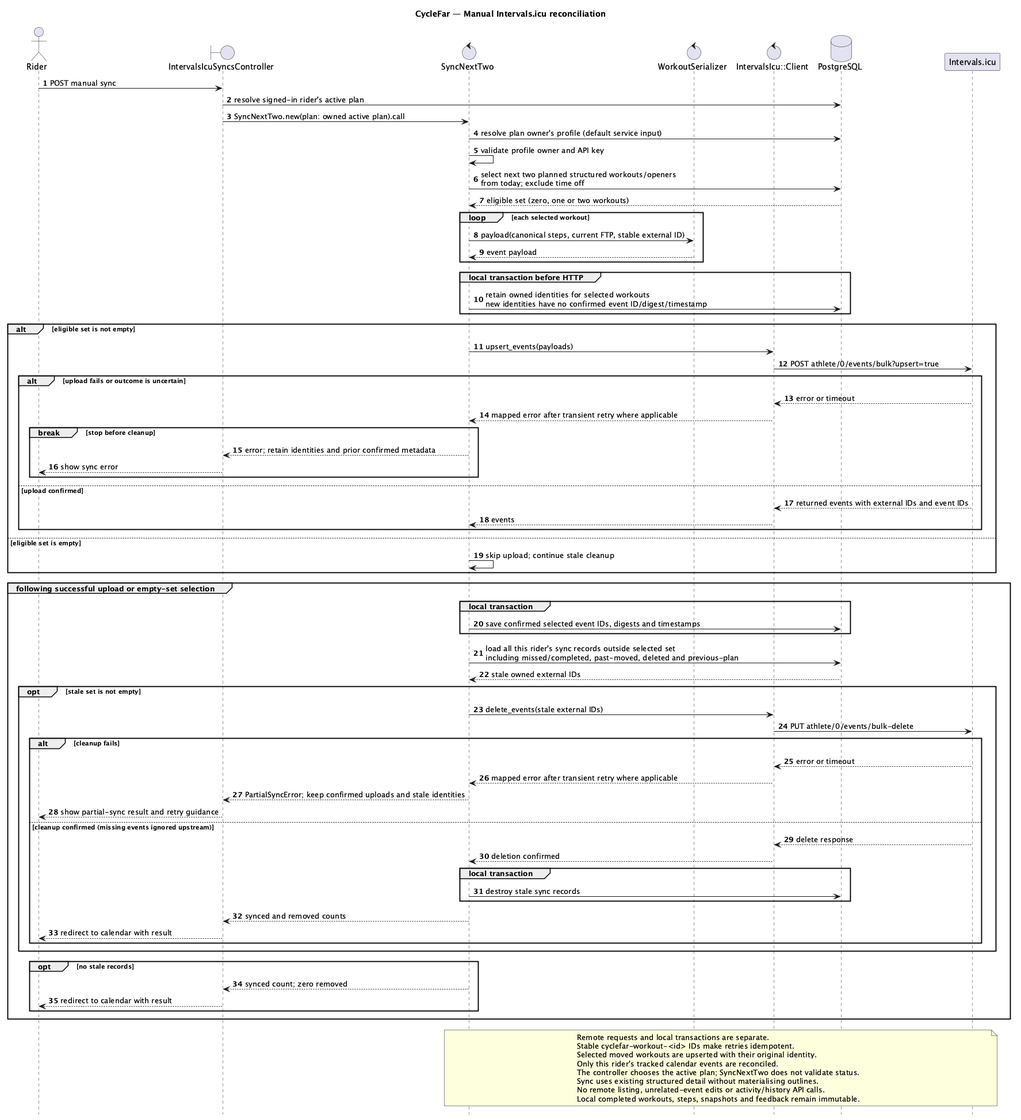
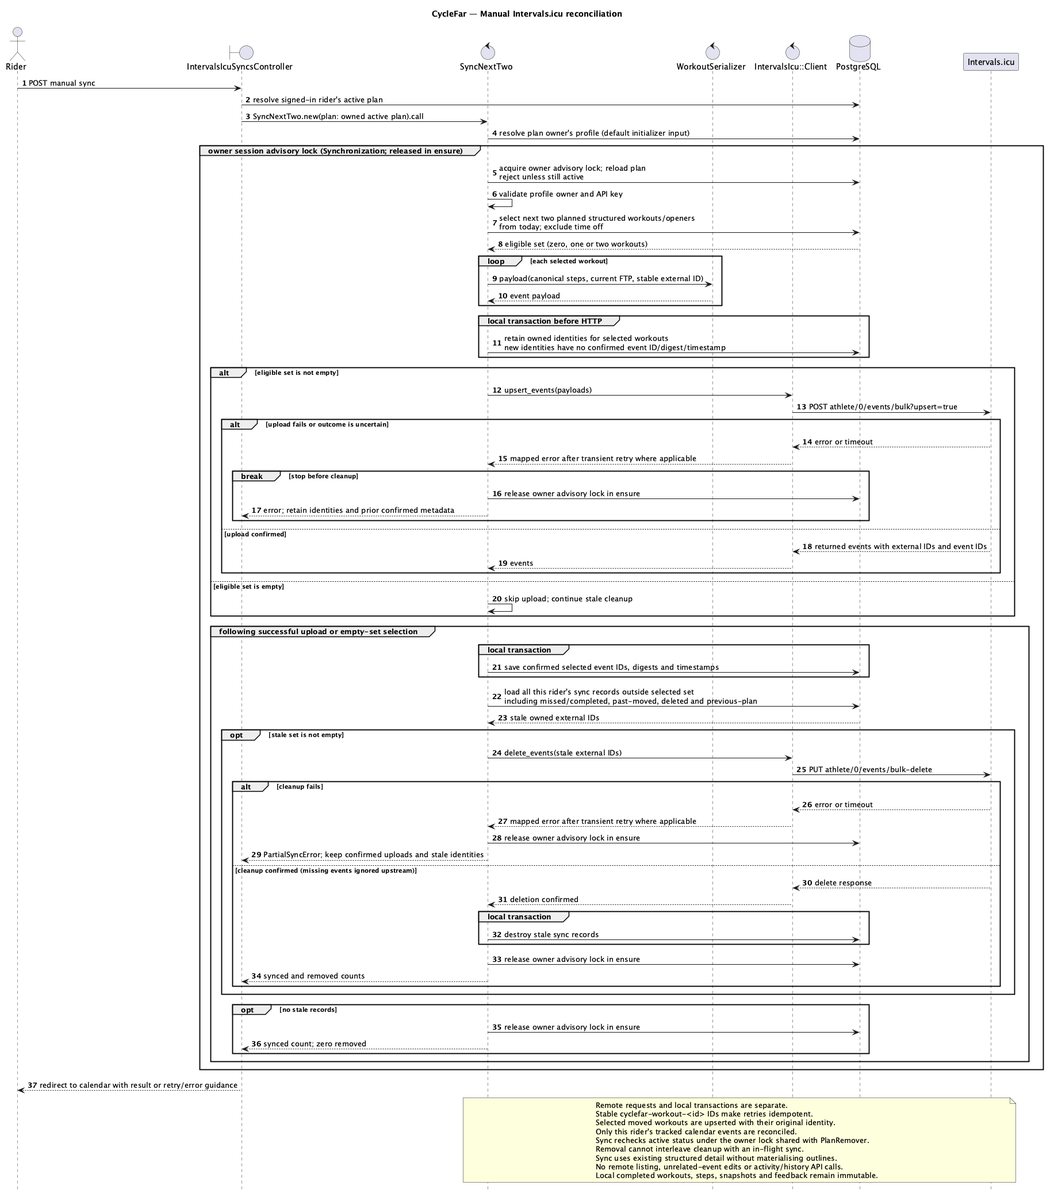
CYF-81 Update workout adjustment documentation and diagrams

diff --git a/docs/diagrams/README.md b/docs/diagrams/README.md
@@ -2,14 +2,16 @@
 
 These diagrams describe the implemented application, including owner-scoped requests and sync, account access, preview isolation, feedback comparisons, accepted progression bias and optional material-change replanning. All eleven views were reviewed against the current controllers, services, routes, configuration and SQL schema on 2026-10-06. They include shared recovery scheduling, staged taper budgets, return-stage power limits, canonical calendar summaries and complete tracked-event reconciliation through CYF-14, plus current account access and deployment boundaries. They do not certify all V1 requirements; outstanding behaviour is tracked in Jira.
 
+The documentation review on 2026-10-11 adds a twelfth view for manual Easier/Harder (CYF-81) and updates the application and plan-change components to include `DirectionalAdjustment`. The manual adjustment flow distinguishes interval ladders from aerobic profiles and shows both successful replacement and the unchanged limit result. The application and sync views also now reflect implemented plan-removal cleanup and the shared owner advisory lock (CYF-79), including sync's active-plan recheck.
+
 | View (PlantUML source) | PNG | Scope |
 | --- | --- | --- |
 | [System context](context-cyclefar-system.puml) | [PNG](png/context-cyclefar-system.png) | Rider, owner-scoped CycleFar, Intervals.icu and SMTP provider |
 | [Containers](container-cyclefar.puml) | [PNG](png/container-cyclefar.png) | Rails/Puma with supervised Solid Queue, PostgreSQL databases and SMTP provider |
 | [Application components](component-cyclefar-application.puml) | [PNG](png/component-cyclefar-application.png) | Authentication, account access, canonical calendar summaries, domain services and persistence |
 | [Plan generation](component-cyclefar-plan-generation.puml) | [PNG](png/component-cyclefar-plan-generation.png) | Session draft, aligned recovery, taper budgets, confirmation and saved generation choices during materialisation |
-| [Plan changes](component-cyclefar-plan-change.puml) | [PNG](png/component-cyclefar-plan-change.png) | Manual edits, completion, bounded feedback, atomic acceptance, comparable pre-break progression, staged return limits and FTP updates |
-| [Intervals.icu sync](component-cyclefar-intervals-icu-sync.puml) | [PNG](png/component-cyclefar-intervals-icu-sync.png) | Selection, serialization, pre-upload identities, confirmed metadata and all owned stale-event cleanup |
+| [Plan changes](component-cyclefar-plan-change.puml) | [PNG](png/component-cyclefar-plan-change.png) | Directional manual edits, completion, bounded feedback, atomic acceptance, comparable pre-break progression, staged return limits and FTP updates |
+| [Intervals.icu sync](component-cyclefar-intervals-icu-sync.puml) | [PNG](png/component-cyclefar-intervals-icu-sync.png) | Owner lock, active-plan recheck, selection, serialization, retained identities, stale-event cleanup and plan-removal cleanup |
 
 The component views answer **which parts own a responsibility**. For request order and read/write boundaries, follow the sequence views:
 
@@ -19,7 +21,8 @@ The component views answer **which parts own a responsibility**. For request ord
 | [Change future training](sequence-cyclefar-future-replanning.puml) | [PNG](png/sequence-cyclefar-future-replanning.png) | Rebuild affected prescriptions with taper context and comparable pre-break return limits, then materialize nearby detail. |
 | [Feedback proposal](sequence-cyclefar-feedback-proposal.puml) | [PNG](png/sequence-cyclefar-feedback-proposal.png) | Completion saves an immutable snapshot; feedback creates an optional proposal; read-only comparison precedes acceptance or rejection. |
 | [Material Change Workout proposal](sequence-cyclefar-material-change-proposal.puml) | [PNG](png/sequence-cyclefar-material-change-proposal.png) | Change Workout immediately saves the selected workout; a separate optional acceptance replans the bounded following block. |
-| [Manual Intervals.icu reconciliation](sequence-cyclefar-intervals-icu-sync.puml) | [PNG](png/sequence-cyclefar-intervals-icu-sync.png) | Retain identities before upload, save confirmed metadata, clean every stale owned event, and preserve retry metadata on failure. |
+| [Make a workout Easier/Harder](sequence-cyclefar-directional-adjustment.puml) | [PNG](png/sequence-cyclefar-directional-adjustment.png) | Select interval ladder entries or aerobic profiles by calculated and displayed TSS; save one replacement or return a limit without writes. |
+| [Manual Intervals.icu reconciliation](sequence-cyclefar-intervals-icu-sync.puml) | [PNG](png/sequence-cyclefar-intervals-icu-sync.png) | Under the shared owner lock, recheck active status, retain identities before upload, save confirmed metadata, clean stale owned events and preserve retry metadata on failure. |
 
 Read the [application component view](component-cyclefar-application.puml) for orientation, then the sequence that matches the rider action. The two proposal sequences are separate because feedback proposes edits to upcoming workouts, while a material Change Workout has already saved its source workout before the optional replan is offered.
 
@@ -33,7 +36,11 @@ Authentication gates private application controllers, while the homepage offers 
 
 The sync views show reconciliation of every tracked event owned by the rider outside the next-two set, including missed/completed, past-moved, deleted and previous-plan workouts. Owned identities are saved before HTTP; confirmed uploads are saved before cleanup. An uncertain upload retains its identities, while cleanup failure retains both confirmed upload metadata and stale identities for retry. Remote operations and local transactions are separate. Completed local history and remote activities remain unchanged (CYF-14).
 
+`Synchronization` serializes manual sync and plan removal with an owner-scoped PostgreSQL session advisory lock. Sync reloads and checks active status under this lock, retaining separate short local transactions around HTTP. `PlanRemover` also locks the plan and calls `RemovePlanEvents` to clean this plan's linked events and the owner's detached identities before archiving/deleting locally. Missing credentials or remote failure retains the active plan and identities; local failure rolls back identity removal and plan mutation for safe retry. With completed workouts, removal archives the plan and retains completed/missed history; otherwise it deletes the plan (CYF-79).
+
 The plan-change view shows regular structured feedback targets in today through day 13, comparable-family fallback, nearby hard-session and difficult-easy reductions, read-only comparisons and acceptance using the same load-limited prescriptions. ProposalCreator saves a seven-day deadline and a digest of relevant canonical inputs. ProposalFreshness enforces expiry, active-plan status and unchanged relevant prescriptions/schedule/load before comparison and acceptance; stale, expired or unverifiable proposals offer dismissal. FTP-only metric recalculation does not invalidate them. Acceptance applies the exact load-limited canonical definition shown in the comparison and rolls back all edits if any step fails. Accepted global bias affects later materialisation; per-family stored bias remains unimplemented.
+
+Manual Easier/Harder uses `DirectionalAdjustment` rather than feedback's `adapt` path. Subtype membership in `Training::Rules::LADDERS` selects nearest lower/higher interval levels followed by current-level variants. Endurance/Recovery search profiles only; the aerobic fitter returns `progression_level: nil`. Every candidate retains subtype, duration and saved load adjustments. The saved profile is tried first, then the declared rule order; the first candidate moving both canonical current-FTP TSS and displayed whole TSS in the requested direction wins. Display comparison includes database decimal rounding. A limit writes nothing and suggests Shorter/Longer or Change workout; it never wraps back to an unsuitable profile. Successful one-off edits preserve automatic references and plan bias, and do not create a replan proposal. Same still rotates profiles. See [TRAINING_ENGINE.md §21](../TRAINING_ENGINE.md#21-harder--easier-manual-shuffle).
 
 AWS Terraform/CloudFormation templates are separate infrastructure preparation. They are documented in [infra/README.md](../../infra/README.md), not represented as running containers here. The container view groups the web server and its Puma-supervised Solid Queue worker into the current Kamal deployment unit. The worker delivers queued password-reset mail; it does not generate training or sync Intervals.icu.
 
@@ -59,7 +66,7 @@ After hard-week load enforcement, `PlanBuilder` budgets taper stages against the
 
 The `.puml` files are the maintained sources; PNG exports live in [`png/`](png/). Regenerate the PNG whenever its source changes. The source filenames determine export filenames, and all six C4 views use PlantUML's built-in Smetana layout engine, so Graphviz is not required.
 
-The C4 sources load C4-PlantUML from the upstream URL in their `!include`, so rendering those views needs access to those includes (or a locally configured copy). The five sequence sources are self-contained. The upstream `master` reference is unpinned and may change C4 rendering independently of this repository.
+The C4 sources load C4-PlantUML from the upstream URL in their `!include`, so rendering those views needs access to those includes (or a locally configured copy). The six sequence sources are self-contained. The upstream `master` reference is unpinned and may change C4 rendering independently of this repository.
 
 With a local `plantuml` command on your `PATH`, run from the repository root:
 
@@ -80,3 +87,5 @@ PlantUML resolves this relative output directory beside each source, producing `
 When updating a view, compare it with the named controllers/services, routes and persistence schema. Check relationship endpoints, render the sources and inspect the resulting images. Keep implementation limits in diagram notes and this guide aligned with [ARCHITECTURE.md](../ARCHITECTURE.md), especially after proposal, move, completion or horizon changes.
 
 Validation on 2026-10-06 ran `generate-pngs.sh` with PlantUML 1.2026.8 and the built-in Smetana layout engine. All eleven sources passed the script's pre-render checks and were exported to PNG. The exports were visually reviewed, source/PNG links were checked, and the PNG chunks were checked for the absence of embedded PlantUML source metadata. The application and plan-change component views were later re-rendered individually to cover editable FTP history and the load-guidance panel.
+
+Validation on 2026-10-11 used PlantUML 1.2026.8 with the same pre-render checks and metadata-free PNG options. All twelve sources passed and rendered in a temporary directory. The five changed/new exports were visually reviewed and copied into `png/`; local documentation links and PNG metadata were checked. The directional selector, manual-editor and workout-request specs passed: 113 examples, zero failures. This review changes documentation and diagrams only.

diff --git a/docs/TRAINING_ENGINE.md b/docs/TRAINING_ENGINE.md
@@ -335,6 +335,8 @@ Positive bias increases progression level before changing subtype. Do not start 
 
 Each structured intensity subtype has levels 1–7. Level is primarily based on position inside the current phase, then adjusted by feedback/recovery/load-cap constraints.
 
+The ladders belong to Tempo, Sweet Spot, Threshold, VO2 Max and Over-under. Endurance and Recovery use aerobic profiles and have no progression level (`nil` on the generated definition and structured workout). A level identifies a subtype's interval structure, not a TSS ranking: changing repetitions, recovery and duration fitting can make adjacent levels non-monotonic in total load. Manual Easier/Harder therefore checks generated TSS as described in section 21.
+
 Base target levels by phase:
 
 - Base: 1 → 4 across the phase
@@ -580,13 +582,17 @@ Affects this workout only.
 CYF-81 makes these actions directional in total planned load:
 
 - Calculate current load from the canonical steps and candidate load from generated steps, both at the owning rider's current FTP.
-- Easier requires strictly lower estimated TSS and a lower displayed whole-number TSS; Harder requires strictly higher values for both. Hidden rounding differences do not count.
+- Easier requires strictly lower estimated TSS and a lower displayed whole-number TSS; Harder requires strictly higher values for both. For the displayed comparison, first round to the database column's decimal precision, then to a whole number, matching persistence and the UI. Hidden rounding differences do not count.
 - For intensity sessions, search lower levels nearest first for Easier, or higher levels nearest first for Harder, within 1..7 and the applicable saved/reduced-period ceiling. Skip non-monotonic ladder entries and ineffective duration fits. A higher requested level that fits below the current effective level is not a Harder candidate.
 - At each candidate level, prefer the saved variation, then other valid variations in their declared rule order. Select the first qualifying replacement. If directional levels are exhausted, evaluate variations at the current level, subject to the ceiling. Endurance/Recovery have no intensity progression level and evaluate only their valid profiles using the same order.
 - Keep subtype and exact duration; use the existing fitter, ladders and normal target ranges. Retain saved target-lowering/easy-filler choices, tapered main-set factors and return-stage power limits. Preserve the workout's purpose and automatic generation references.
 - If no candidate qualifies, persist no changes and explain the limit: `No lower-load option is available at this duration. Try Shorter or Change workout.` Harder substitutes `higher-load` and `Longer`. Repeated presses never wrap to an unsuitable profile.
 
 For example, 60-minute Over-Unders level 3 is approximately 64.2 TSS. Easier skips level 2 (68.2 TSS) and selects level 1 (59.4 TSS). Recovery profile differences may be too small to change displayed TSS, in which case the action reports the limit.
+
+For a normal 60-minute Endurance workout, alternating is approximately 44.94 TSS (displayed as 45), undulating 44.81 (45) and sustained 44.16 (44). Easier from alternating selects sustained; another Easier press reports the limit. Harder from sustained selects alternating in the declared profile order. The selector takes the first qualifying profile, rather than sorting all profiles by TSS. It does not repeatedly lower aerobic power targets; further reductions require Shorter or Change workout.
+
+The implementation branches on subtype membership in `Training::Rules::LADDERS` in `Workouts::DirectionalAdjustment#candidate_levels`. Aerobic candidates use a single internal level-1 generator argument; `ExactDurationFitter#fit_aerobic` ignores the ladder and returns a `nil` progression level. See the [manual adjustment sequence](diagrams/sequence-cyclefar-directional-adjustment.puml) and its [rendered diagram](diagrams/png/sequence-cyclefar-directional-adjustment.png).
 
 Do not update plan progression bias from this action.
 
@@ -1092,6 +1098,16 @@ For each subtype, levels 1–7 and representative durations 30/45/60/75/90/120 m
 - recovery weeks excluded from reference;
 - next hard week after recovery compares to pre-recovery hard week;
 - manual Harder/Longer can exceed cap without mutating future progression.
+
+### Manual Easier/Harder
+
+- repeated actions across every regular subtype and representative durations either move calculated and displayed TSS strictly in the requested direction or reach a finite limit;
+- non-monotonic interval ladders and levels that fit down at short durations do not reverse the requested load change;
+- Endurance/Recovery evaluate profiles without acquiring an intensity progression level;
+- saved taper factors, target/filler adjustments, return bands and applicable progression ceilings survive every candidate;
+- preview and application select the same definition for unchanged inputs; a limit leaves all persistence unchanged;
+- current canonical metrics, database decimal precision and whole-number display rounding govern the comparison;
+- one-off edits preserve automatic generation references, plan bias, unrelated workouts and completed history.
 
 ### Feedback
 

diff --git a/docs/ARCHITECTURE.md b/docs/ARCHITECTURE.md
@@ -72,6 +72,8 @@ Forecast generation always passes an explicit variation. Initial endurance mater
 
 For Easier/Harder, pure `Workouts::DirectionalAdjustment` searches valid ladder/profile replacements and compares canonical current-FTP load, requiring both actual and displayed whole-number TSS to move in the requested direction. `ManualEditor` supplies the saved load adjustments and shared `Planning::LoadContext` ceiling, retains purpose/generation references, and applies only a qualifying replacement under the plan lock. Exhausted or rounding-only choices raise a limit message through the existing request error path without changing persistence. Other editing and feedback paths retain their existing selection rules (CYF-81).
 
+The interval/aerobic distinction is `Training::Rules::LADDERS.key?(subtype)` in `DirectionalAdjustment#candidate_levels`, also used by `ExactDurationFitter#call`. Ladder subtypes search directional levels nearest first and then current-level variations, preferring the saved variation at each level. Endurance/Recovery search profiles only: the internal level-1 generator argument is ignored by `fit_aerobic`, which returns `progression_level: nil`. The first candidate passing both TSS comparisons wins; display comparison rounds to database decimal precision before whole-number rounding. `ManualEditor#preview` performs no writes; the current shuffle buttons call `apply!` directly, which reloads the workout and selects the replacement under the plan lock before replacing steps transactionally. See the [component view](diagrams/component-cyclefar-plan-change.puml) and [manual adjustment sequence](diagrams/sequence-cyclefar-directional-adjustment.puml), also available as a [PNG](diagrams/png/sequence-cyclefar-directional-adjustment.png).
+
 `Workouts::DestinationValidator` shares Add, Copy, Move and missed Move destination rules: an empty date within the plan and a phase, outside inclusive time-off periods and away from the target event date. Mutations validate under the owning plan lock before changing workouts or steps; Move alone excludes its source from collision checks. Failures show the same date-specific errors and preserve canonical prescriptions and completed history (CYF-8).
 
 `Workouts::Mover` serves ordinary Move and missed-workout Move under the owning plan lock. Same-phase moves of at most seven days preserve canonical steps, variation and manual levels when recovery/return context remains compatible. A phase boundary, greater distance or changed recovery/return context regenerates at the destination's phase/date and accepted bias, preserving kind, subtype, intent and requested duration. `Planning::PhaseProgression` shares the phase-level calculation with PlanBuilder. Source generation ceilings are replaced with destination recovery/taper/post-break ceilings and fitted/load-limited references. Explicit moves retain subtype/duration during reduced-load periods while respecting their level ceilings; automatic schedule/time-off prescriptions still apply their usual subtype/duration overrides. Structured workouts remain structured outside the horizon; distant outlines keep forecasts only and retain an unbiased baseline for later materialisation. Move rejects non-planned sources, archived plans, occupied/out-of-plan/unphased destinations, time off and the target event date. Preserved structures refresh metrics with owner FTP; completed history and unrelated workouts remain unchanged.

diff --git a/docs/DATA_MODEL.md b/docs/DATA_MODEL.md
@@ -156,7 +156,7 @@ Fields:
 - `purpose: string`
 - `detail_status: enum` — `outline`, `structured`
 - `status: enum` — `planned`, `missed`, `completed`
-- `progression_level: integer, nullable` — outline prescription level before materialisation; fitted effective level once structured
+- `progression_level: integer, nullable` — outline prescription level before materialisation; fitted effective interval level once structured; structured Endurance/Recovery and openers have no level
 - `generation_context: jsonb, default: {}` — baseline level, effective generation ceiling and generated load/level reference
 - `variation_key: string, nullable` — persisted descriptive profile key; Same shuffle rotates deterministically, while initial endurance generation randomly selects a profile (TRAINING_ENGINE.md §15)
 - `estimated_np_watts: decimal, nullable`
@@ -181,6 +181,8 @@ Important:
 - Missed records retain their structure/metrics and occupy their date under the same unique constraint. Current calendar totals include them.
 
 `generation_context` is generation metadata, not a replacement for canonical steps. `baseline_level` preserves the unbiased prescription when a time-off ceiling is based on a previously reached effective level; `maximum_level` retains load/re-entry limits. `generated_level` and `generated_tss` record the effective automatic prescription. Manual one-off edits leave those references intact so they do not escalate future generation; accepted feedback adaptations refresh them. Existing rows default to an empty object, with current level/metrics as the fallback; completed rows are not backfilled or rewritten. Both model validation and a database constraint require an object.
+
+Easier/Harder (CYF-81) replaces the selected workout's steps, effective level, variation and metrics only after a qualifying load change is found. Aerobic replacements retain a `nil` level. The selector uses canonical steps rather than stored estimates as its baseline, and matches the `estimated_tss` column's decimal scale before comparing whole-number displayed TSS. A limit writes nothing; successful one-off adjustments retain the existing `generation_context` and automatic references. No schema change is required.
 
 `load_adjustments` inside that context saves §27 target/filler generation choices (`lower_targets` and `easy_filler`). Preview persistence and later materialisation use those choices together with the saved subtype, level and variation. Canonical structured steps remain authoritative; comparison and adaptation acceptance apply the same load-limited definition atomically. No migration is required for these optional JSON keys.
 

diff --git a/docs/REQUIREMENTS.md b/docs/REQUIREMENTS.md
@@ -304,7 +304,8 @@ Easier/Harder:
 - modify structure/progression level, not arbitrary wattage hacks;
 - Easier strictly lowers both canonical estimated TSS and its displayed whole-number value; Harder strictly raises both (CYF-81);
 - calculate the current and candidate load from canonical steps at the owning rider's current FTP; do not use stale stored metrics to choose the direction;
-- try the next lower/higher progression levels in order, skipping entries that move load in the wrong direction or leave displayed TSS unchanged; evaluate valid profiles for easy rides and as a fallback when directional levels are exhausted;
+- for interval subtypes with a progression ladder, try the next lower/higher levels nearest first, skipping entries that move load in the wrong direction or leave displayed TSS unchanged; try variations at the current level after directional levels are exhausted;
+- Endurance/Recovery have no progression level: evaluate their valid profiles at the same duration and keep `progression_level` unset;
 - retain saved taper, reduced-load and return-to-training adjustments and progression ceilings; selection is deterministic and never cycles back to an unsuitable profile;
 - when no suitable replacement exists, keep the workout, steps, metrics and generation context unchanged and explain the limit: `No lower-load option is available at this duration. Try Shorter or Change workout.` (Harder uses `higher-load` and `Longer`);
 - do not offer replanning purely because of this manual harder/easier choice.

diff --git a/docs/UX.md b/docs/UX.md
@@ -255,6 +255,8 @@ Shorter can be repeated down to a 30-minute minimum. Longer can be repeated with
 
 Easier/Harder preserve workout type and duration and require both actual TSS and the displayed whole-number TSS to decrease/increase. They skip unsuitable ladder entries and select profiles by load, retaining existing training restrictions. When no suitable replacement remains, keep the workout unchanged and show `No lower-load option is available at this duration. Try Shorter or Change workout.` Harder uses `higher-load` and `Longer`. Same continues to rotate valid profiles (CYF-81).
 
+Interval sessions search their progression ladders; Endurance/Recovery switch among valid aerobic profiles and continue to have no progression level. Profile load differences can be small: for a normal 60-minute Endurance session, Easier can switch alternating (45 displayed TSS) to sustained (44), then reaches the limit. An available profile with the same displayed TSS does not qualify. These controls do not continuously lower aerobic power targets.
+
 A replacement preview is desirable before applying. Current buttons apply immediately and redirect to the updated detail page; there is no replacement preview.
 
 ## 8. Change-workout dialog

diff --git a/README.md b/README.md
@@ -57,6 +57,14 @@ Initial endurance workouts select and save one of three profiles: sustained,
 alternating or undulating. This is the engine's deliberate randomness exception;
 previews and regeneration with an explicit variation remain deterministic.
 
+Easier/Harder adjusts one workout at the same duration and subtype, requiring
+both calculated and displayed TSS to move in the requested direction. Interval
+sessions search their progression ladders; endurance and recovery search
+profiles and have no progression level. At the limit, the workout stays unchanged
+and the app suggests changing duration or workout type. See the
+[selection rules](docs/TRAINING_ENGINE.md#21-harder--easier-manual-shuffle) and
+[manual adjustment diagram](docs/diagrams/png/sequence-cyclefar-directional-adjustment.png).
+
 ## Local setup
 
 The repository pins Ruby **4.0.6** and Rails **8.1.4**, and uses Tailwind CSS
